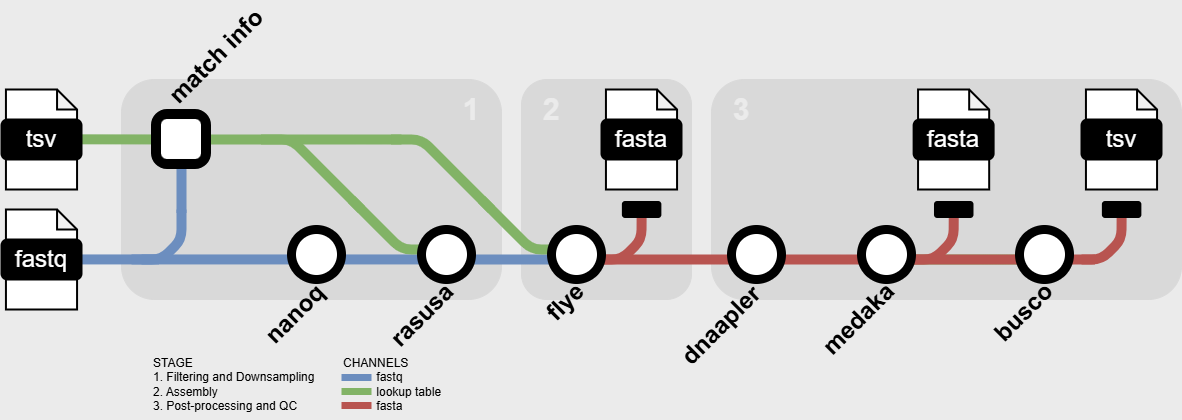
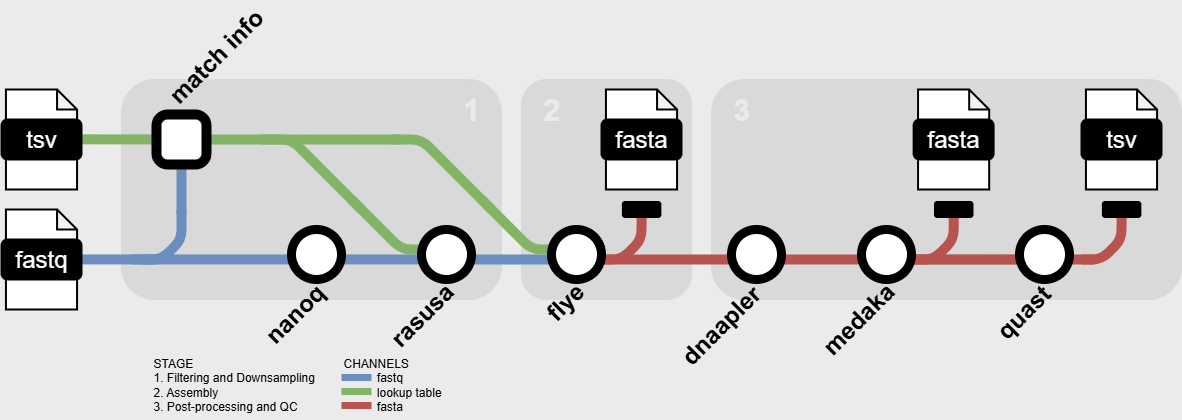
replace busco with quast in markdown, paper, and tubemap

diff --git a/paper/paper.md b/paper/paper.md
@@ -50,7 +50,7 @@ bibliography: paper.bib
 
 # Summary
 
-Oxford Nanopore Technologies (ONT) sequencing is a promising technology with many potential applications in food safety. We have developed stylo, a lightweight nf-core style assembly workflow for ONT long-reads, specifically optimized for enteric bacteria. The pipeline downsamples, assembles, and performs post-processing and quality control by combining nanoq [@Steinig2022], Rasusa [@Hall2022], Flye [@Kolmogorov2019], Dnaapler [@Bouras2024], Medaka [@medaka], and BUSCO [@Seppey2019].  All of stylo’s dependencies are containerized and the pipeline is available on GitHub. 
+Oxford Nanopore Technologies (ONT) sequencing is a promising technology with many potential applications in food safety. We have developed stylo, a lightweight nf-core style assembly workflow for ONT long-reads, specifically optimized for enteric bacteria. The pipeline downsamples, assembles, and performs post-processing and quality control by combining nanoq [@Steinig2022], Rasusa [@Hall2022], Flye [@Kolmogorov2019], Dnaapler [@Bouras2024], Medaka [@medaka], and QUAST [@Mikheenko2018].  All of stylo’s dependencies are containerized and the pipeline is available on GitHub. 
 
 # Statement of Need
 
@@ -66,9 +66,9 @@ Stylo is developed for PulseNet, a molecular surveillance network for foodborne 
 
 3. Assembly: Flye is run on the subsampled fastq using the "--nano-hq" mode by default, expecting high-quality ONT reads. This parameter can be changed by the user. 
 
-4. Post-processing and Quality Control: The pipeline uses "dnaapler all" to reorient contigs to begin at a specific genes. The pipeline then uses Medaka to correct assembly sequences. Finally, the assembly quality is assessed via BUSCO, run with parameter mode set to "genome". 
+4. Post-processing and Quality Control: The pipeline uses "dnaapler all" to reorient contigs to begin at a specific genes. The pipeline then uses Medaka to correct assembly sequences. Finally, the assembly quality is assessed via QUAST with the following speedup options: "--no-check", "--no-plots", "--no-html", "--no-icarus", "--no-snps", "--no-sv".
 
-5. Output: The pipeline outputs files for each step. Some key files are the assembly by Flye, the final corrected assembly by Medaka, and the quality control summary by BUSCO.
+5. Output: The pipeline outputs files for each step. Some key files are the assembly by Flye, the final corrected assembly by Medaka, and the quality control summary by QUAST.
 
 ![Diagram of stylo steps.](stylo_tubemap.png)
 

diff --git a/docs/output.md b/docs/output.md
@@ -15,7 +15,7 @@ The pipeline is built using [Nextflow](https://www.nextflow.io/) and processes d
 - [Flye](#flye) - Assembly
 - [Dnaapler](#dnaapler) - Reorientation of contigs
 - [Medaka](#medaka) - Assembly error correction
-- [BUSCO](#busco) - Assembly QC
+- [QUAST](#quast) - Assembly QC
 - [Pipeline information](#pipeline-information) - Report metrics generated during the workflow execution
 
 ### nanoq
@@ -87,20 +87,19 @@ For further reading and documentation see [dnaapler usage](https://github.com/gb
 
 Neural network sequence error correction. For further reading and documentation see [medaka usage](https://github.com/nanoporetech/medaka?tab=readme-ov-file#usage).
 
-### BUSCO
+### QUAST
 
 <details markdown="1">
 <summary>Output files</summary>
 
-- `busco/`
-  - `*-auto-busco/`: Directory containing all intermediate outputs of busco
-  - `*-auto-busco.batch_summary.txt`: full QC summary
-  - `short_summary.generic.*` : QC summary for generic organisms (bacteria, ...)
-  - `short_summary.specific.*` : QC summary for specific organisms (enterobacteriaceae, campylobacterota, ...)
+- `quast/`
+  - `*.tsv`,`*/report.tsv`,`*/transposed_report.tsv`: Final summary of assembly stats in tsv format
+  - `*/report.tex`,`*/transposed_report.tex`: Final summary of assembly stats in TeX format
+  - `*/report.txt`,`*/transposed_report.txt`: Final summary of assembly stats in an easy to read txt format
 
 </details>
 
-BUSCO provides measures for quantitative assessment of genome assembly, gene set, and transcriptome completeness based on evolutionarily informed expectations of gene content from near-universal single-copy orthologs selected from OrthoDB. For further reading and documentation see the [busco github](https://github.com/metashot/busco).
+QUAST provides evaluates genome assemblies by computing various metrics, such as N50, L50, GC content, length and contig distributions ... 
 
 ### Pipeline information
 

diff --git a/CITATIONS.md b/CITATIONS.md
@@ -38,9 +38,9 @@
 
   > Medaka. Github. (2024). https://github.com/nanoporetech/medaka
 
-- [BUSCO](https://www.nature.com/articles/nbt.3820)
+- [QUAST](https://academic.oup.com/bioinformatics/article/34/13/i142/5045727)
 
-  > BUSCO. Github. (2021). https://github.com/metashot/busco
+  > Alla Mikheenko, Andrey Prjibelski, Vladislav Saveliev, Dmitry Antipov, Alexey Gurevich, Versatile genome assembly evaluation with QUAST-LG, Bioinformatics (2018) 34 (13): i142-i150. doi: 10.1093/bioinformatics/bty266 First published online: June 27, 2018
 
 ## Software packaging/containerisation tools
 

diff --git a/README.md b/README.md
@@ -9,7 +9,7 @@
 3. Assembles reads ([Flye](https://github.com/mikolmogorov/Flye))
 4. Reorients assembly ([Dnaapler](https://github.com/gbouras13/dnaapler))
 5. Error correction ([Medaka](https://github.com/nanoporetech/medaka))
-6. QCs assembly ([busco](https://github.com/metashot/busco))
+6. QCs assembly ([QUAST](https://github.com/ablab/quast))
 
 ## Usage
 
